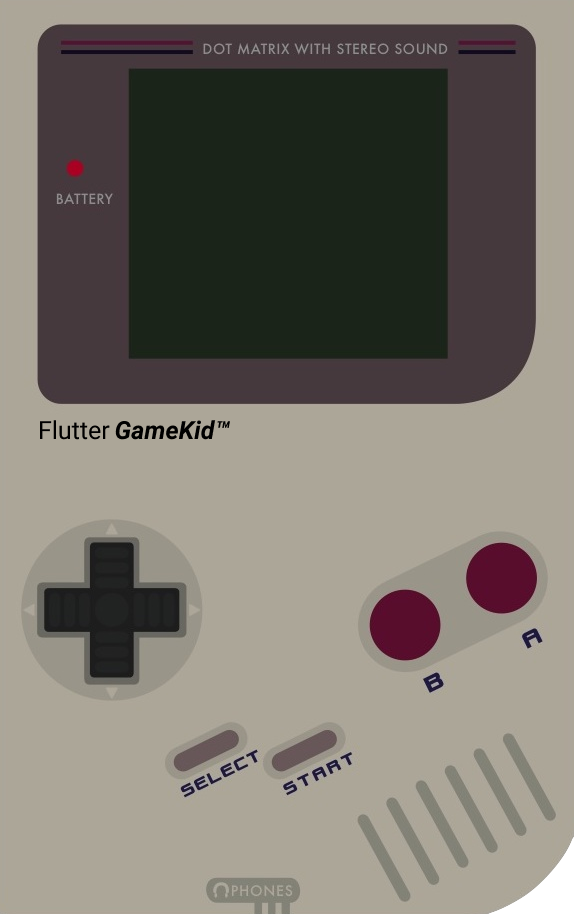
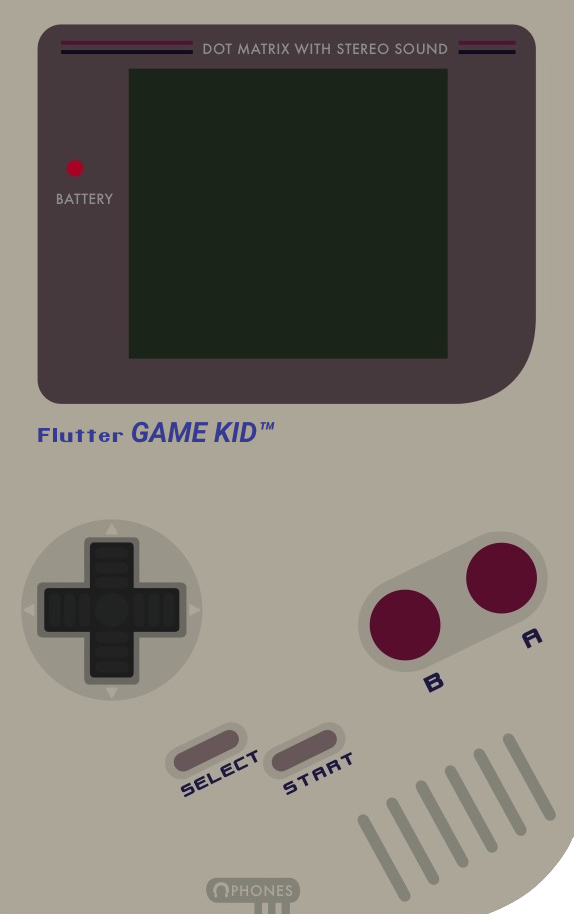
Updated colors

Changed region(s): [[0.0592, 0.4595, 0.4739, 0.4902]]

diff --git a/lib/typography/GameTypography.dart b/lib/typography/GameTypography.dart
@@ -1,11 +1,16 @@
 import 'package:flutter/material.dart';
+import 'package:flutterKid/colors.dart';
 
 class GameTitleText extends Text {
   GameTitleText(String data, {Key key})
       : super(
           data,
           key: key,
-          style: TextStyle(fontFamily: 'Early-GameBoy', fontSize: 20),
+          style: TextStyle(
+            fontFamily: 'Early-GameBoy',
+            fontSize: 20,
+            color: gameBoyColorDarkGreen,
+          ),
         );
 }
 
@@ -14,6 +19,9 @@ class GameGiantText extends Text {
       : super(
           data,
           key: key,
-          style: TextStyle(fontFamily: 'Early-GameBoy', fontSize: 60),
+          style: TextStyle(
+              fontFamily: 'Early-GameBoy',
+              fontSize: 60,
+              color: gameBoyColorDarkestGreen),
         );
 }

diff --git a/lib/main.dart b/lib/main.dart
@@ -3,12 +3,12 @@ import 'package:flutterKid/home.dart';
 import 'package:flutter/services.dart';
 import 'package:flutterKid/sfx.dart';
 import 'package:flutterKid/system.dart';
-import 'cartridges/number/NumberCartridge.dart';
+import 'cartridges/buttonGame/ButtonGameCartridge.dart';
 
 void main() {
   runApp(MyApp());
   Sfx().loadSounds();
-  System().loadCartridge(NumberCartridge());
+  System().loadCartridge(ButtonGameCartridge());
 }
 
 class MyApp extends StatelessWidget {
@@ -20,7 +20,7 @@ class MyApp extends StatelessWidget {
       DeviceOrientation.portraitDown,
     ]);
     return MaterialApp(
-      title: 'Flutter GameKid',
+      title: 'Flutter Game KID',
       theme: ThemeData(
         primarySwatch: Colors.blue,
         visualDensity: VisualDensity.adaptivePlatformDensity,

diff --git a/lib/cartridges/buttonGame/ButtonGameCartridge.dart b/lib/cartridges/buttonGame/ButtonGameCartridge.dart
@@ -3,12 +3,12 @@ import 'package:flutterKid/sfx.dart';
 import 'package:flutterKid/typography/GameTypography.dart';
 import 'package:flutterKid/input.dart';
 
-class NumberCartridge extends StatefulWidget {
+class ButtonGameCartridge extends StatefulWidget {
   @override
-  _NumberCartridgeState createState() => _NumberCartridgeState();
+  _ButtonGameCartridgeState createState() => _ButtonGameCartridgeState();
 }
 
-class _NumberCartridgeState extends State<NumberCartridge> {
+class _ButtonGameCartridgeState extends State<ButtonGameCartridge> {
   int _counter = 0;
 
   void initState() {

diff --git a/lib/screen.dart b/lib/screen.dart
@@ -1,5 +1,6 @@
 import 'package:flutter/material.dart';
 import 'package:flutterKid/system.dart';
+import 'package:flutterKid/colors.dart';
 
 class Screen extends StatelessWidget {
   const Screen({Key key}) : super(key: key);
@@ -8,7 +9,7 @@ class Screen extends StatelessWidget {
   Widget build(BuildContext context) {
     return Container(
       child: Container(
-        color: Colors.green,
+        color: gameBoyColorLightestGreen,
         child: System().loadedGame,
       ),
     );

diff --git a/lib/colors.dart b/lib/colors.dart
@@ -1,0 +1,6 @@
+import 'dart:ui';
+
+final gameBoyColorLightestGreen = Color.fromRGBO(155, 188, 15, 1);
+final gameBoyColorLightGreen = Color.fromRGBO(139, 172, 15, 1);
+final gameBoyColorDarkGreen = Color.fromRGBO(48, 98, 48, 1);
+final gameBoyColorDarkestGreen = Color.fromRGBO(15, 56, 15, 1);

diff --git a/lib/sfx.dart b/lib/sfx.dart
@@ -1,8 +1,6 @@
 import 'package:soundpool/soundpool.dart';
 import 'package:flutter/services.dart';
 
-loadSounds() {}
-
 class Sfx {
   Soundpool _pool = Soundpool(streamType: StreamType.notification);
   static final Sfx _singleton = Sfx._internal();
